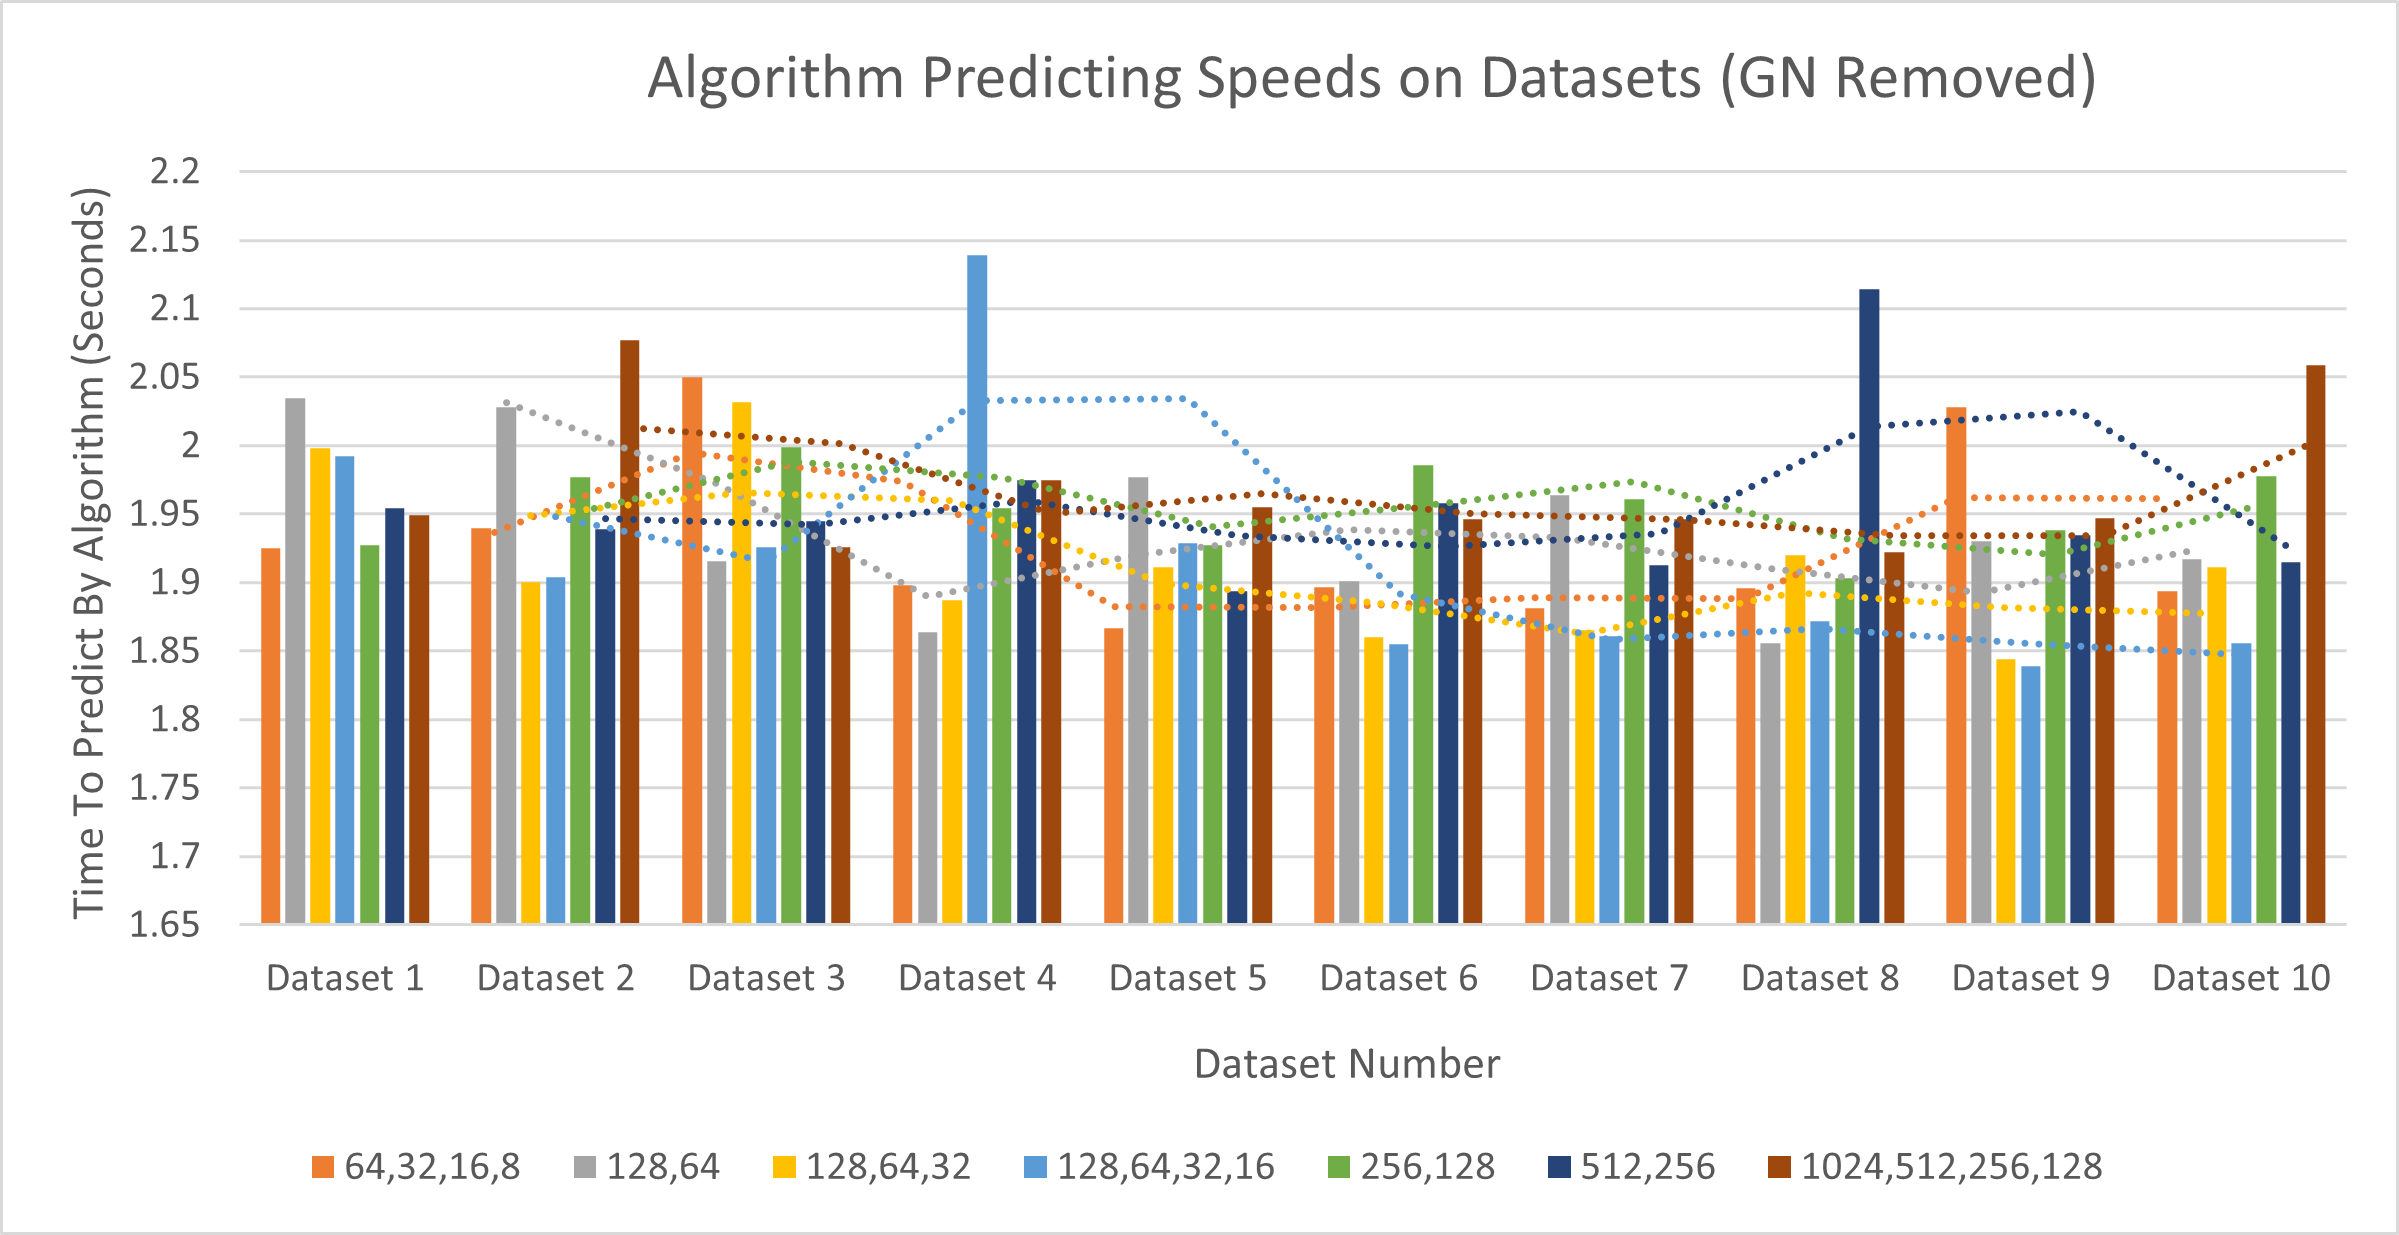
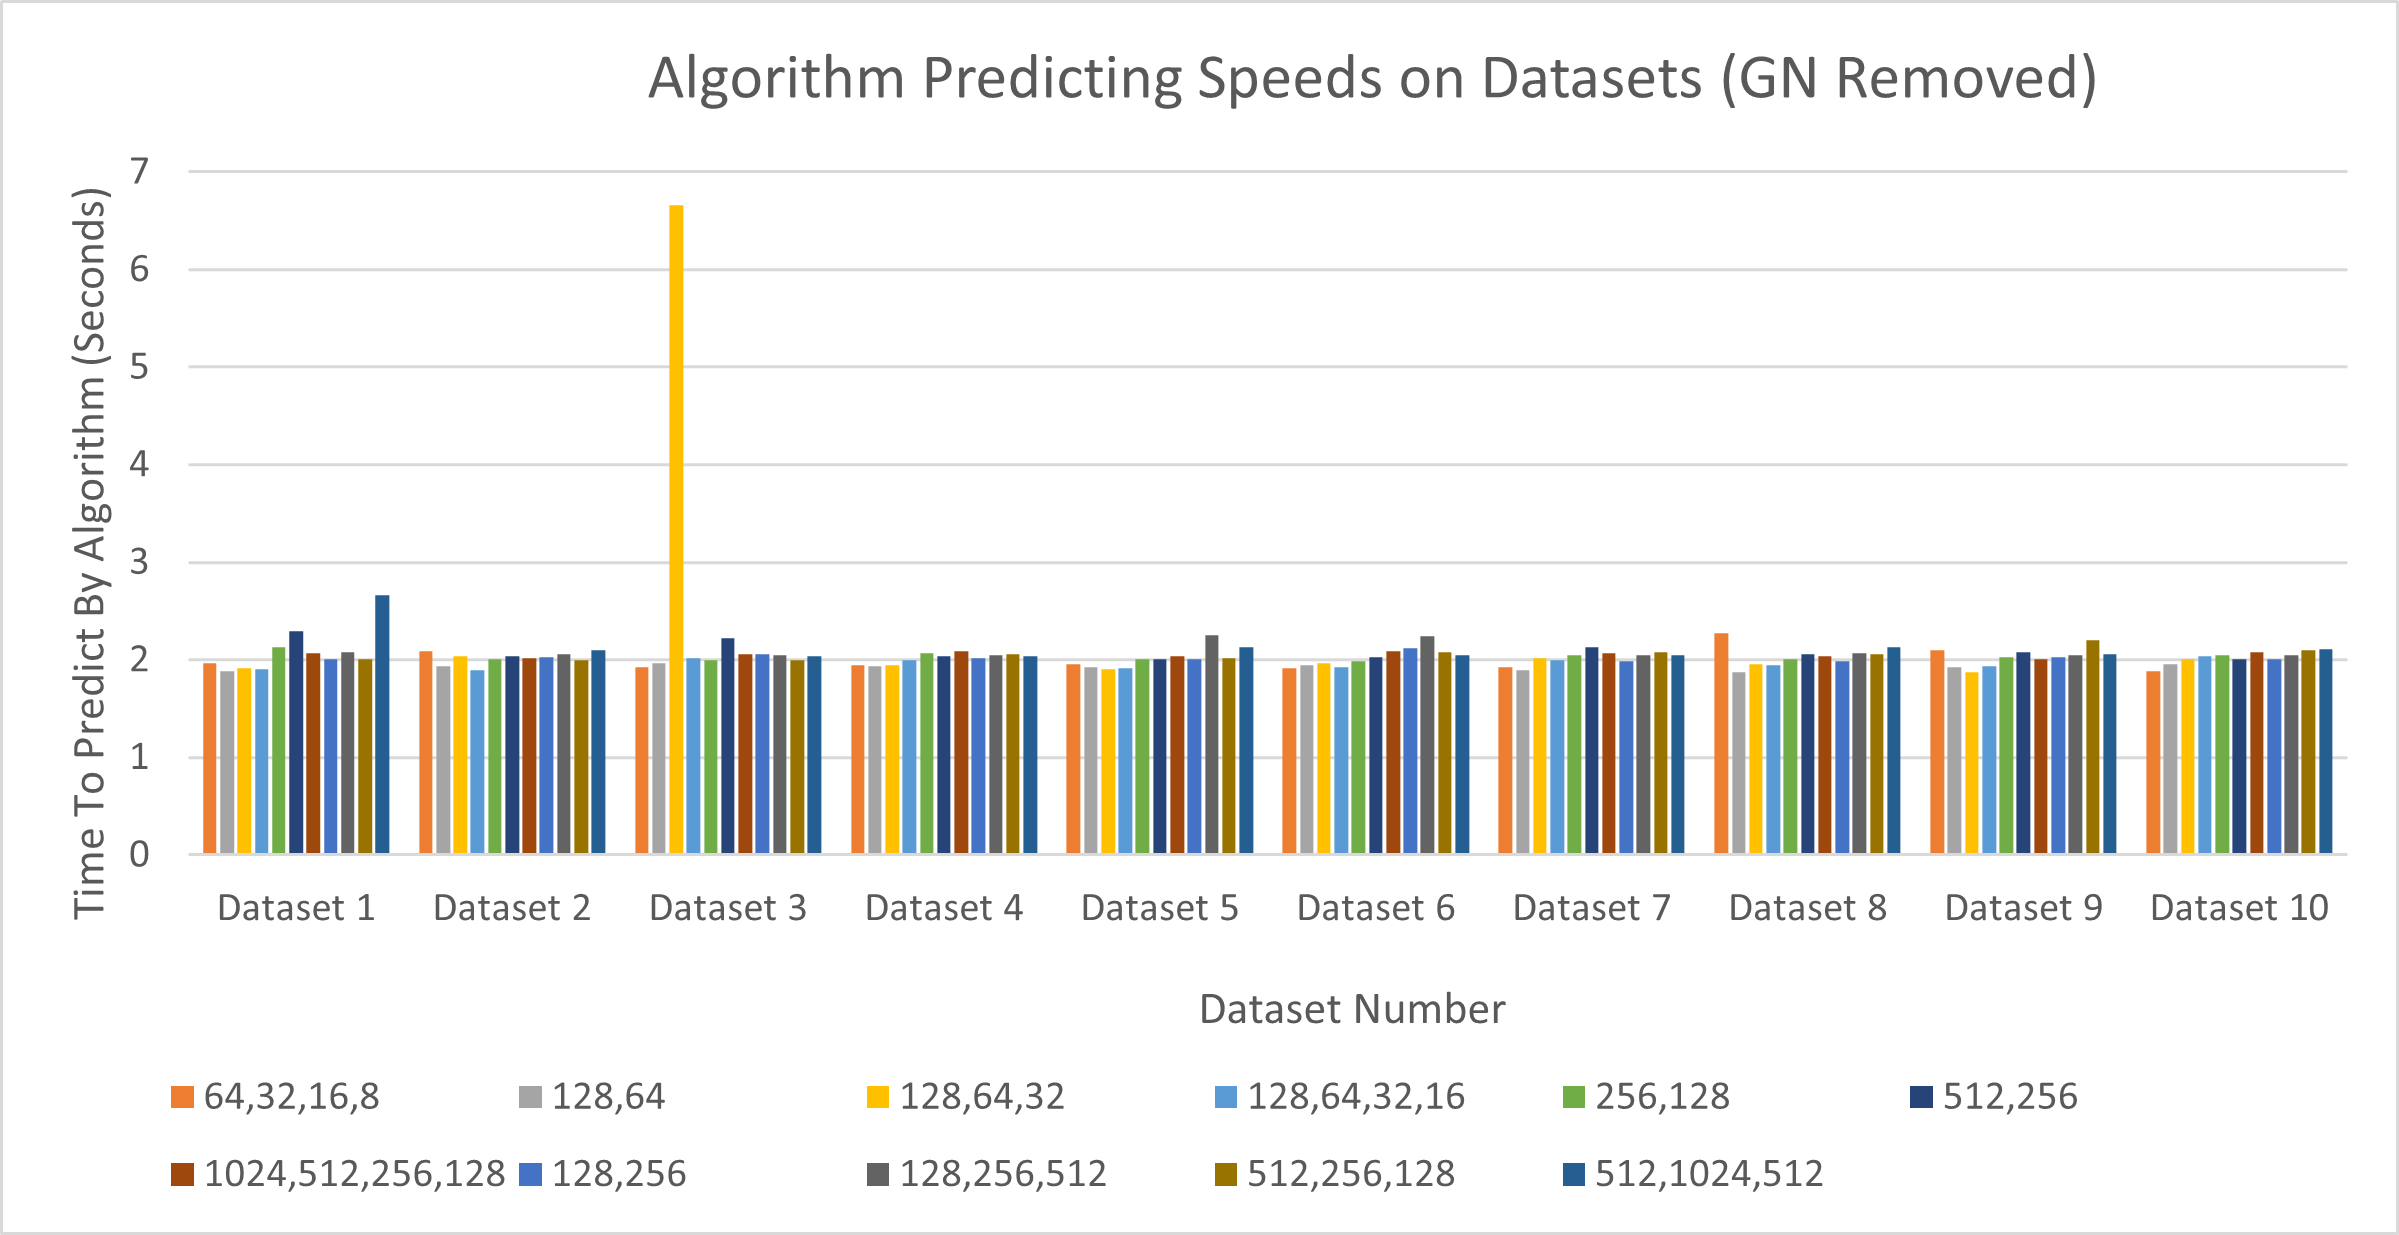
Updated README Images and Data

diff --git a/src/communityDetection.py b/src/communityDetection.py
@@ -21,11 +21,11 @@ import torch
 mode = "NN"                         # Mode to evaluate the graph, use NN for neural network
                                     # and "GN" (or anything else) for normal Q function.
 commName = "community"              # The name of the community label in the graphml file
-inFile = "../data/dataset1.graphml" # The datafile to load in
+inFile = "../data/dataset10.graphml" # The datafile to load in
 
 # Neural Network Parameters
 configFileName = "./networkParams.yml"  # The configuration file for the model
-modelFileName = "../models/512,1024,512"# The saved model to load in
+modelFileName = "../models/64,32,16,8"# The saved model to load in
 numClasses = 4                          # Number of classes to predict
 
 # Girvan Newman Parameters
